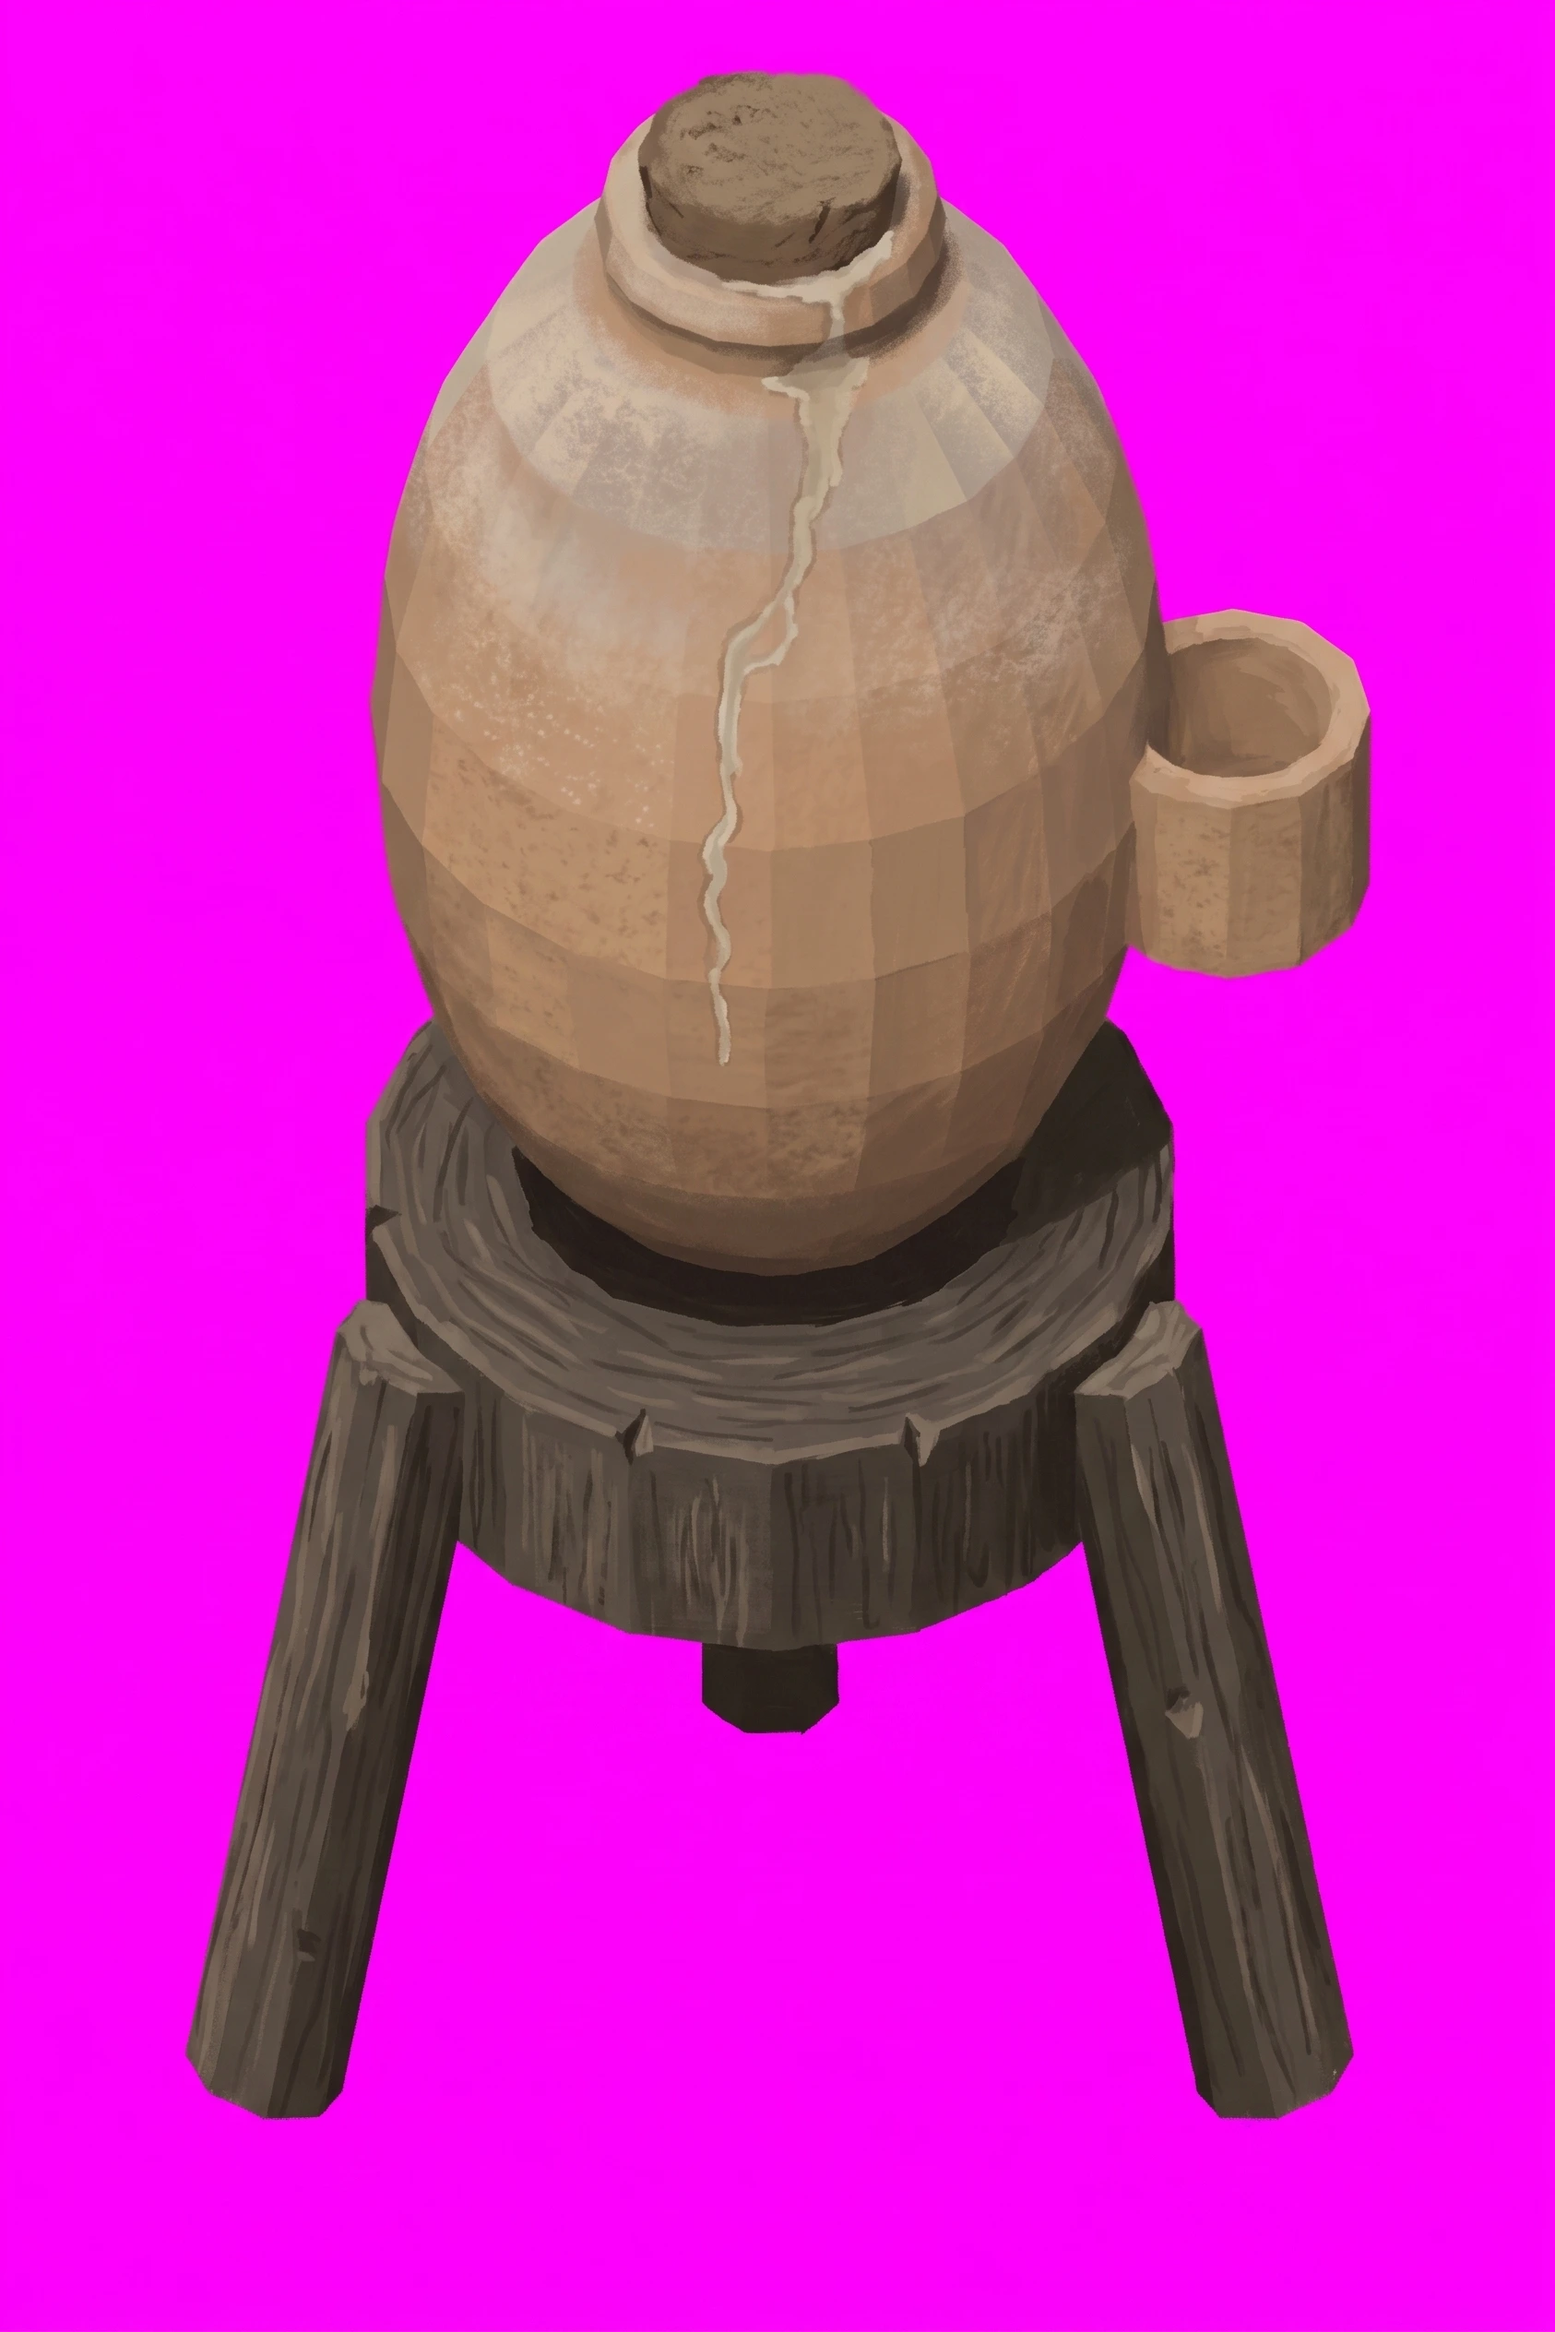
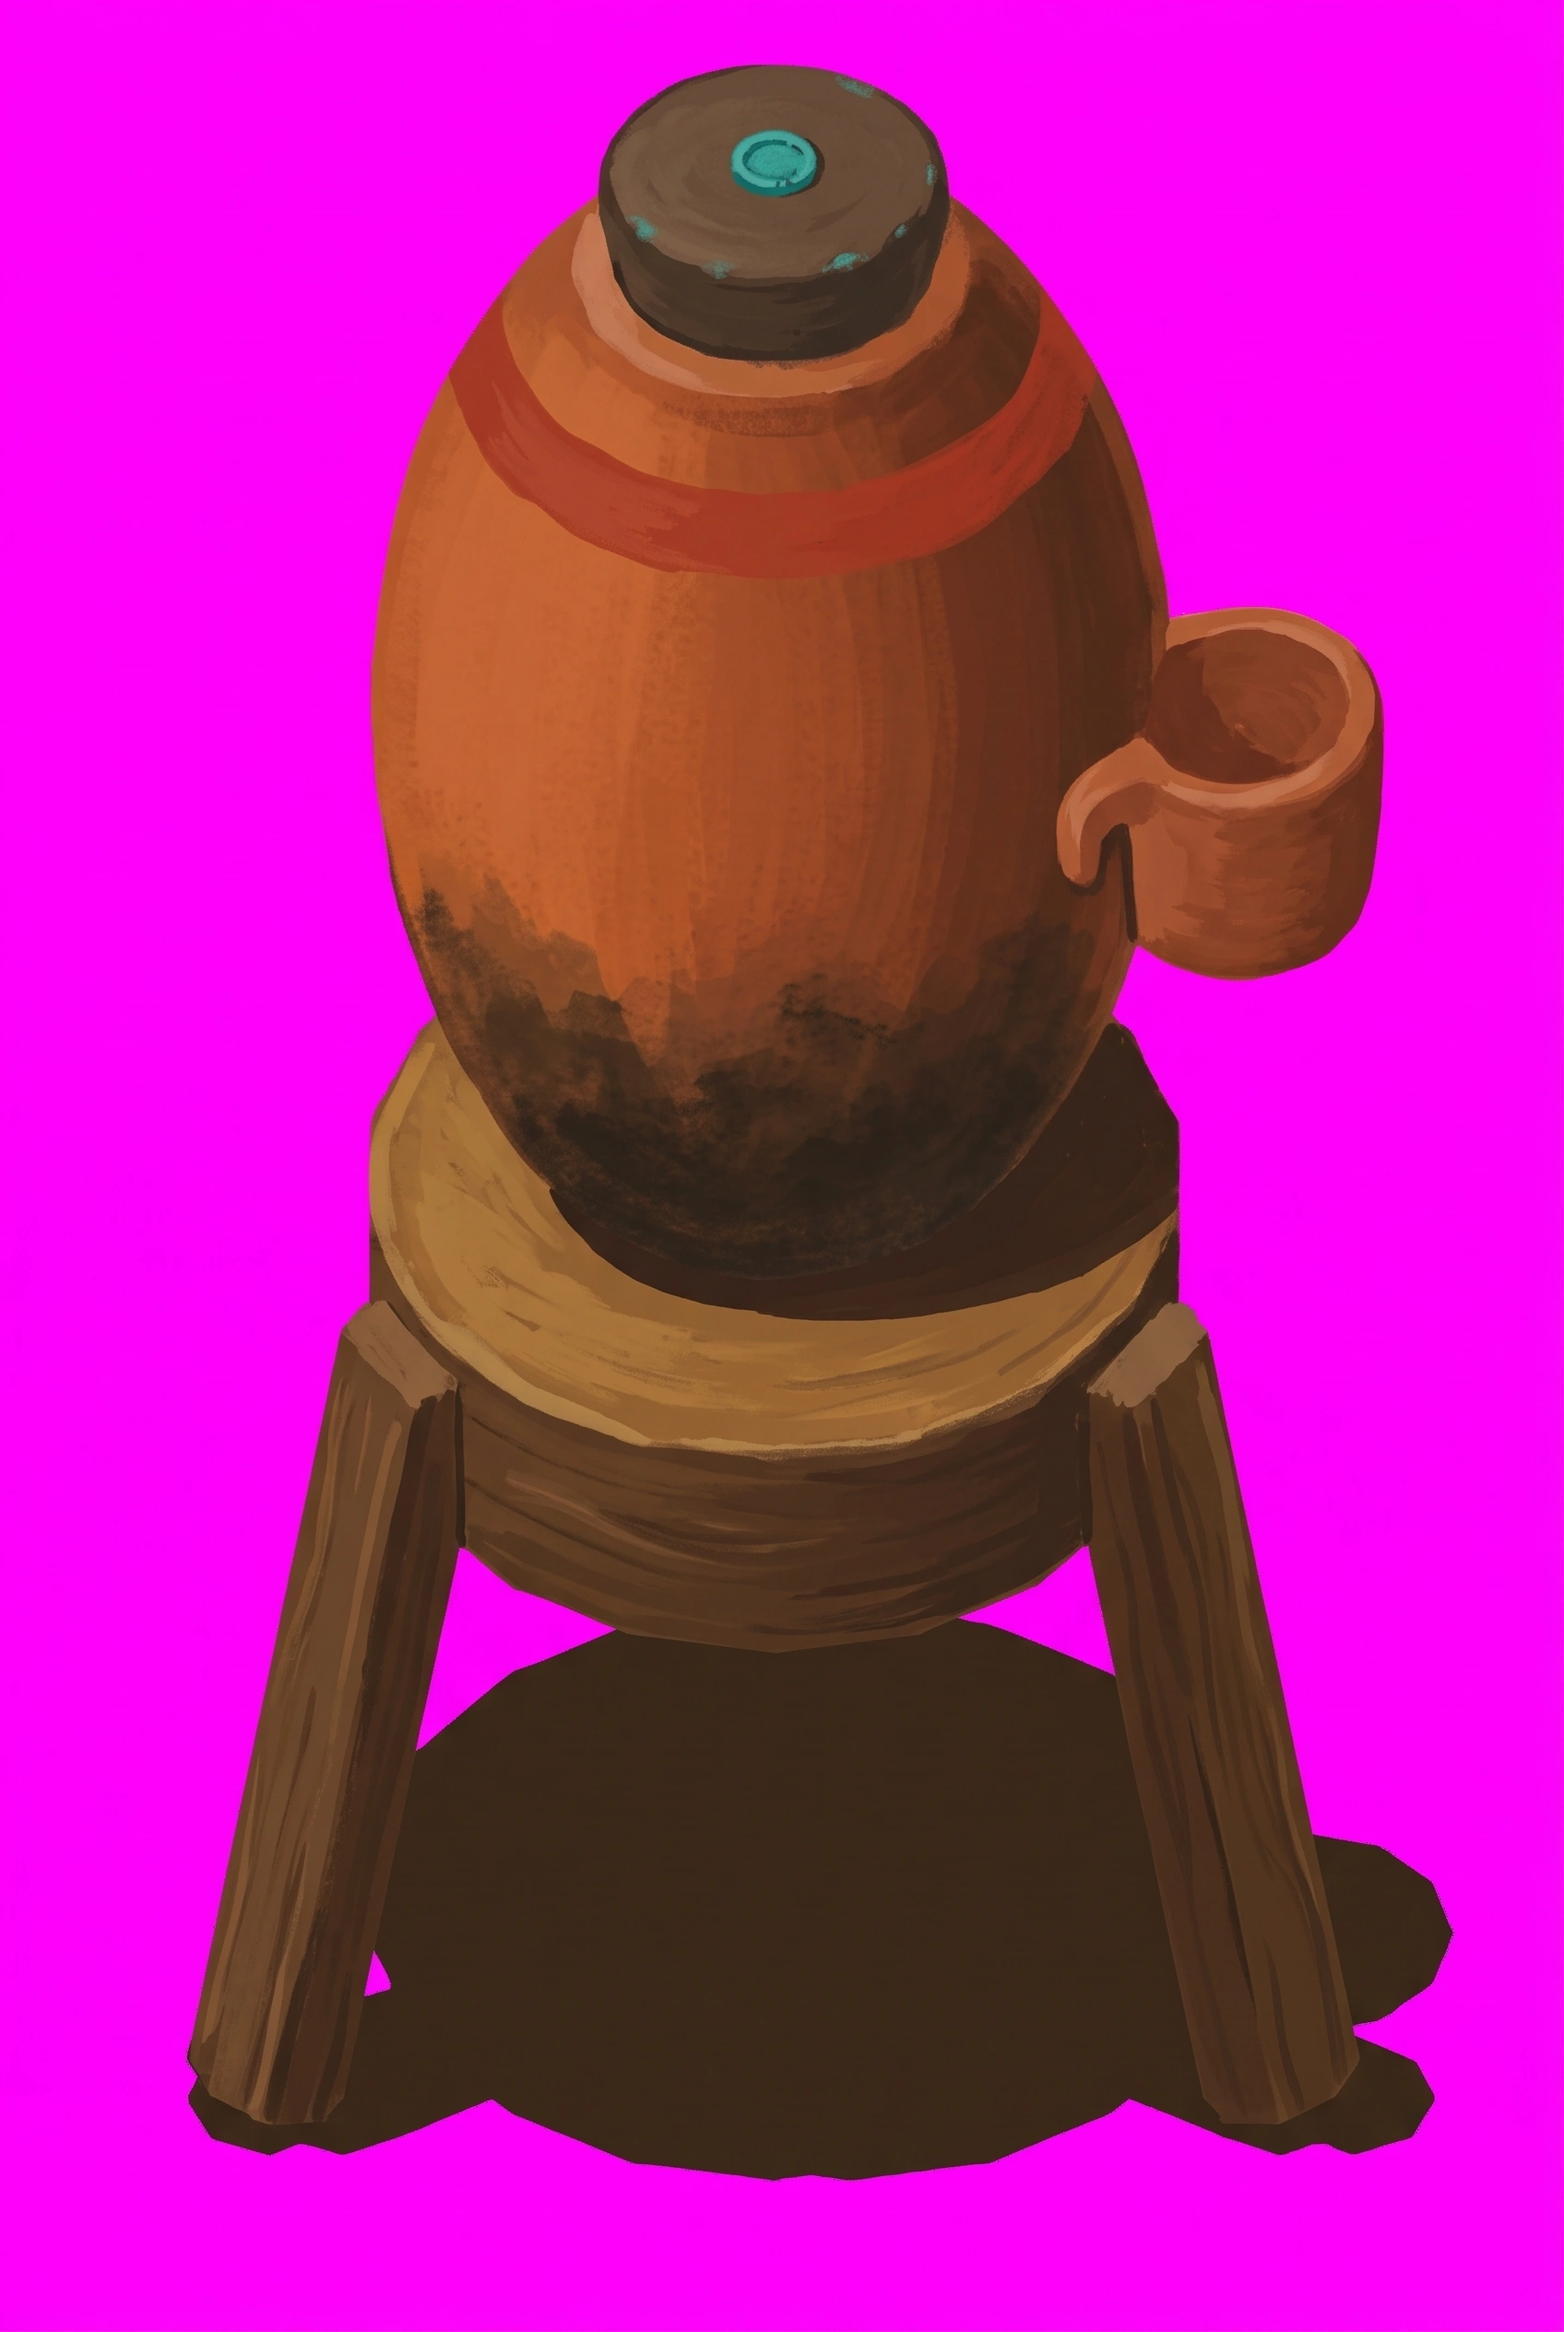
feat: starter's water jar repainted, 36 L* off the floor
Claude-Session: https://claude.ai/code/session_01NQk9Q1WZoZfDzoRioyXby1

diff --git a/docs/instructions/repaint-queue.md b/docs/instructions/repaint-queue.md
@@ -193,46 +193,6 @@ the shabti is `--mesh=art/masters/meshes/shabti.glb`. `starter-plain.png` is the
 `art/masters/surfaces/starter-floor.webp` scaled to 1024, the crop every `<tier>-plain.png` is. The
 tally board has no scaffold: it attaches its own master.
 
-### `starter/basin` — a big terracotta water jar on a timber stand
-
-**Attach:**
-
-1. `~/tile-previews/basin-starter.png` — the scaffold
-2. `~/tile-previews/starter-plain.png` — the material reference
-
-```
-A wall-less product shot of a single object, painted in flat matte gouache, no background, on pure magenta #FF00FF. Portrait, two units wide by three tall, exactly as the reference. Do not re-compose it into a square. Paint over the reference image itself.
-
-The object: a WATER JAR on a stand. The three splayed legs and the thick ring they hold are the timber
-STAND. Sitting in the ring is a large egg-shaped JAR with a round STOPPER on its mouth. The small cup
-hooked on its side is a DIPPER.
-
-The jar is fired TERRACOTTA, saturated #c0612f on its lit side going to #7e3a1a on its shadowed side,
-darkened by damp below its widest point, with a band of red ochre #b8452c round its shoulder. The stopper
-is dark mud with a turquoise #2a9d8f faience seal. The stand is dark timber #5e3a1e, the ring's top face
-honey #9a6a3c. The dipper is terracotta. Nothing on it is pale buff clay.
-
-IT STANDS ON A PALE FLOOR AND MUST READ DARK ON IT. The floor is pale limestone, #d8c8a8. The object as a
-whole is clearly DARKER and more colourful than that: nothing on it larger than a fingertip is lighter
-than terracotta #c0612f, and only the turquoise #2a9d8f may be, in small touches. Its base, its underside
-and every part nearest the floor are its darkest, deep umber #3a2a1c. Nothing on it is white, cream,
-bleached, pale straw or whitewash — a pale part vanishes into the floor.
-
-Keep every edge, every proportion and every silhouette exactly as in the reference image — do not move, resize, straighten, add, remove or restyle any part of it, and do not change the angle it stands at. Paint only material and wear.
-
-The shadow at its foot is part of the picture: paint it #3A2A1C, with no pink and no purple in it at all.
-
-No highlights, no gloss, no rim light, no ground plane, no reflections. Matte throughout, as if lit by one dull lamp. Merchant's storehouse: fired terracotta #c0612f and #7e3a1a, honey-brown timber #9a6a3c and #5e3a1e, red ochre paint #b8452c, turquoise faience #2a9d8f. Saturated and warm — colour that reads from across the room — and never as pale as the floor it stands on.
-```
-
-Then, once the return is in `~/Downloads`:
-
-```sh
-scaffold basin --contents=jar
-yarn import-tile art/masters/props/starter/basin.webp --tier=starter --name=basin --slot=prop \
-  --filter=smooth --mask="$OBJ" --seat="$SHADOW"
-```
-
 ### `starter/niche` — a goods recess with two jars and a bundle
 
 **Attach:**
